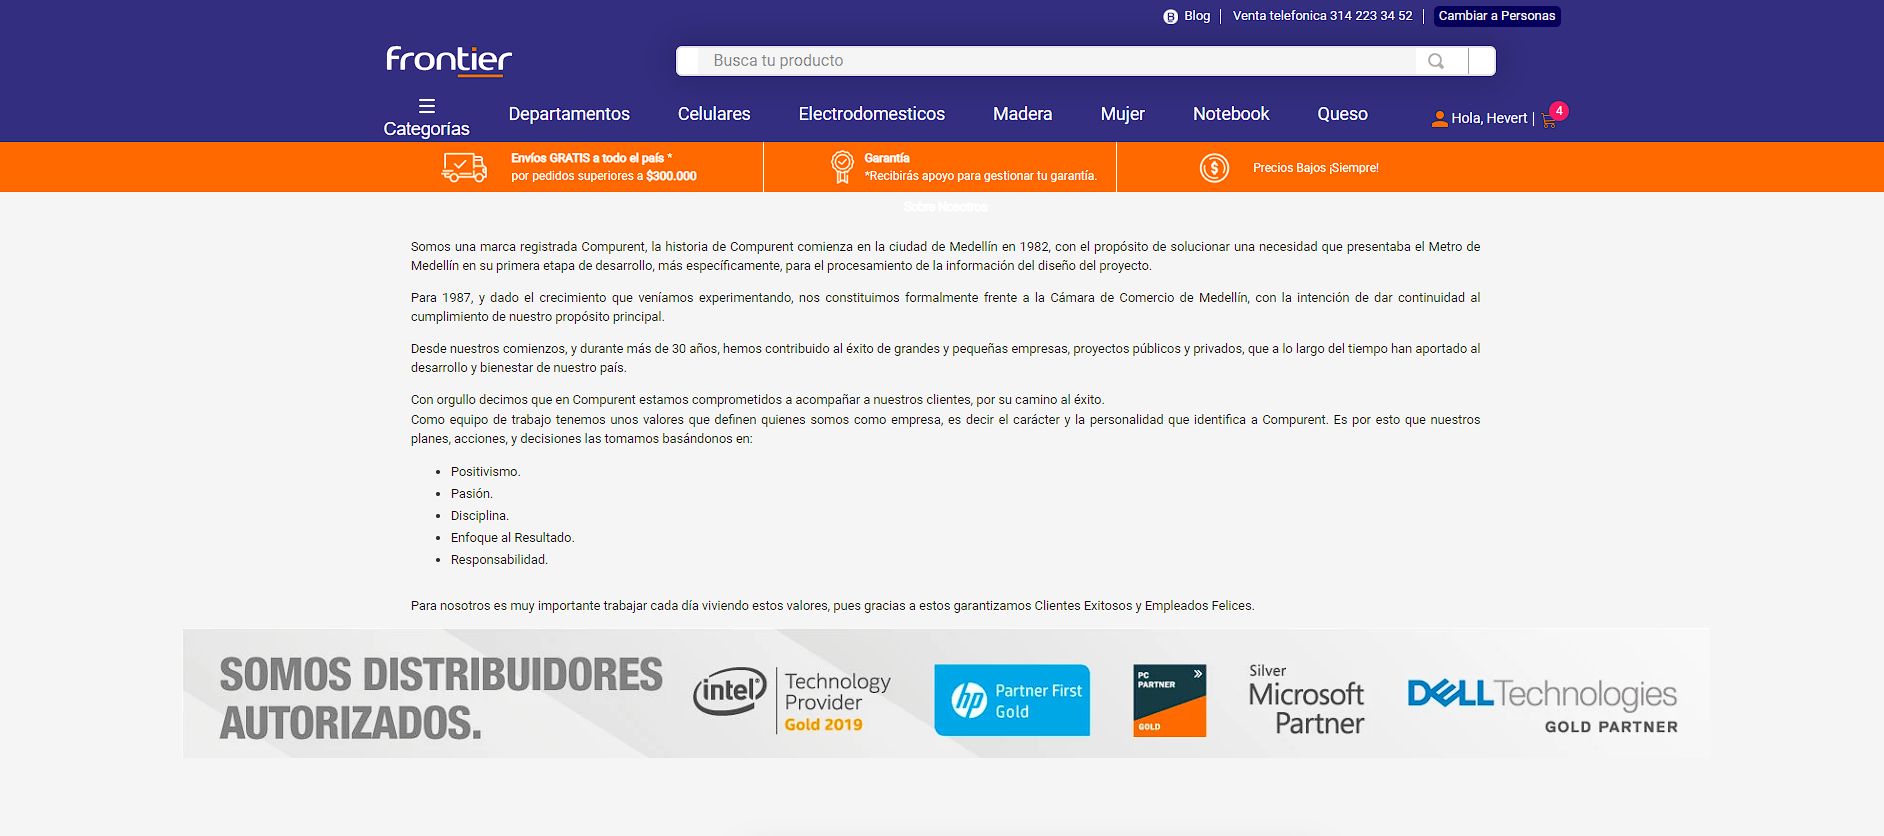
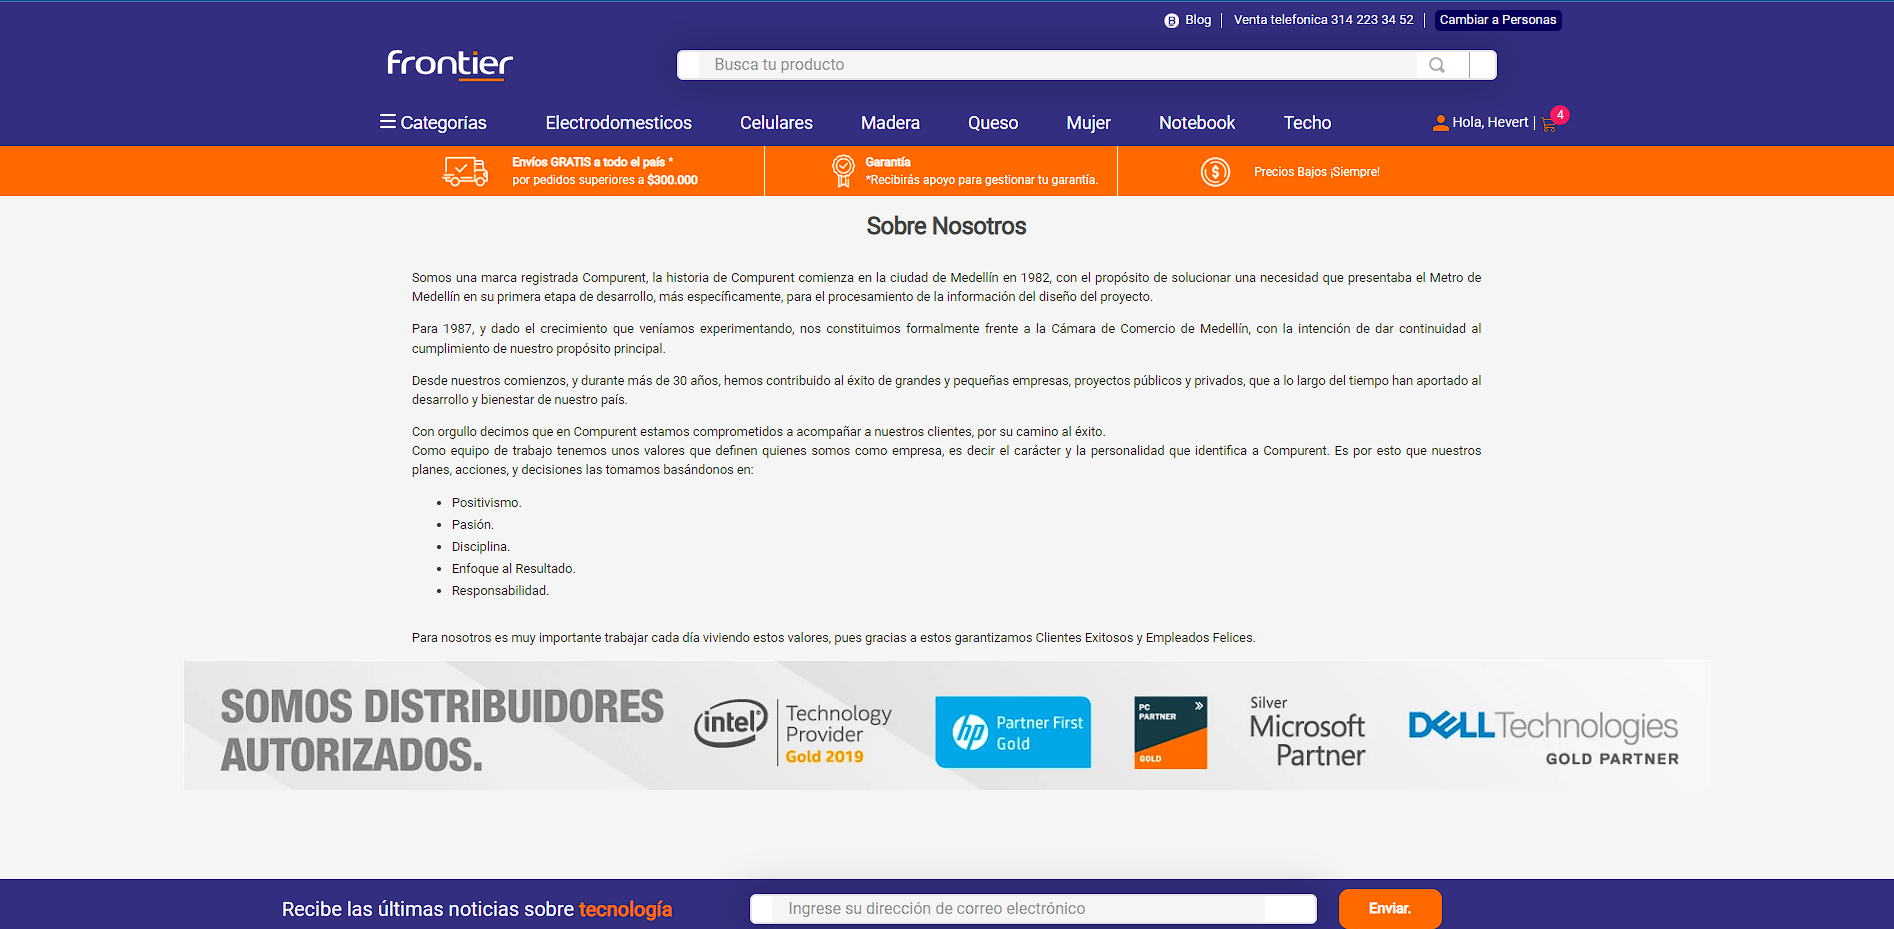
finish documentation

diff --git a/styles/css/about-us/vtex.rich-text.css b/styles/css/about-us/vtex.rich-text.css
@@ -5,10 +5,10 @@
   }
   
   .heading--abouts {
-    font-size: 1.5rem;
-    font-weight: bold;
-    letter-spacing: -0.5px;
-    color: #4d4d4d;
+    font-size: 1.5rem !important;
+    font-weight: bold !important;
+    letter-spacing: -0.5px !important;
+    color: #4d4d4d !important;
   }
   
   .container--page-body {
@@ -19,3 +19,9 @@
     font-size: 0.8rem;
   }
   
+  .heading--abouts__sobre-nosotros-title {
+    font-size: 1.5rem;
+    font-weight: bold;
+    letter-spacing: -0.5px;
+    color: #4d4d4d;
+  }

diff --git a/docs/README.md b/docs/README.md
@@ -12,7 +12,7 @@ https://frontier.com.co/ fue la tienda elegida para realizar el clon de este pro
 
 ![Preview](../assets/documentacion/vista-home-desktop.gif)
 
- <center> Versión Mobile Home </center>
+ <center> Versión Desktop Mobile Home </center>
 
 ![Preview](../assets/documentacion/vista1-mobile.png)
 ![Preview](../assets/documentacion/vista2-mobile.png)
@@ -166,6 +166,7 @@ Una vez modificada esa sección del `manifest.json`, se debe rectificar que el r
 ```
 {
   "vtex.mega-menu": "2.x",
+   "vtex.questions-and-answers": "0.x",
   "vtex.wish-list": "1.x"
 }
 ```
@@ -174,13 +175,12 @@ Una vez modificada esa sección del `manifest.json`, se debe rectificar que el r
 
 ```
 {
-   "itgloberspartnercl.whatsapp-button": "0.x",
-   "itgloberspartnercl.bullets-diagramation": "0.x",
-   "itgloberspartnercl.add-to-cart-info": "0.x",
-   "itgloberspartnercl.custom-department-search": "0.x",
-   "itgloberspartnercl.pdf-reader": "0.x",
-   "itgloberspartnercl.quick-order": "0.x",
-   "itgloberspartnercl.special-diagramation": "0.x"
+    "itgloberspartnercl.whatsapp-button": "0.x",
+    "itgloberspartnercl.button-up": "0.x",
+    "itgloberspartnercl.bullets-diagramation": "0.x",
+    "itgloberspartnercl.add-to-cart-info": "0.x"
+
+
 }
 ```
 
@@ -193,5 +193,5 @@ Si el proceso se ejecuta sin ningún error, se mostrará el mensaje: `Aplicació
 
 Esto permitirá ver los cambios aplicados en tiempo real, a través de la cuenta y el espacio de trabajo en el que está trabajando.
 
-## Contributors
-1. Hevert David Gelis Diaz
+## developed by
+1.  ### Hevert David Gelis Diaz  🧑💻
